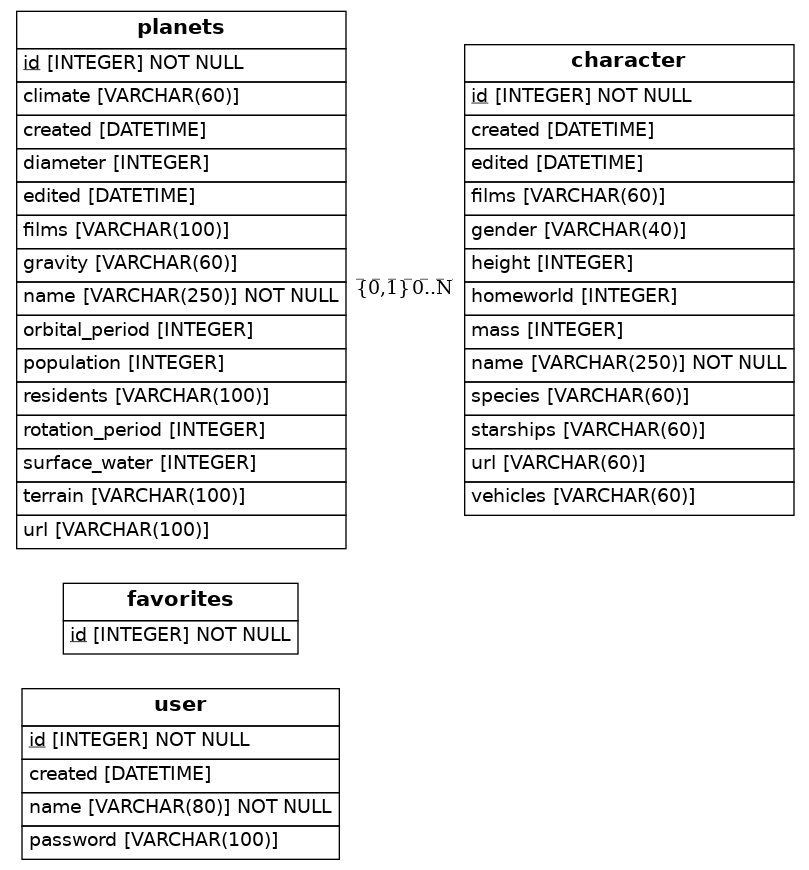
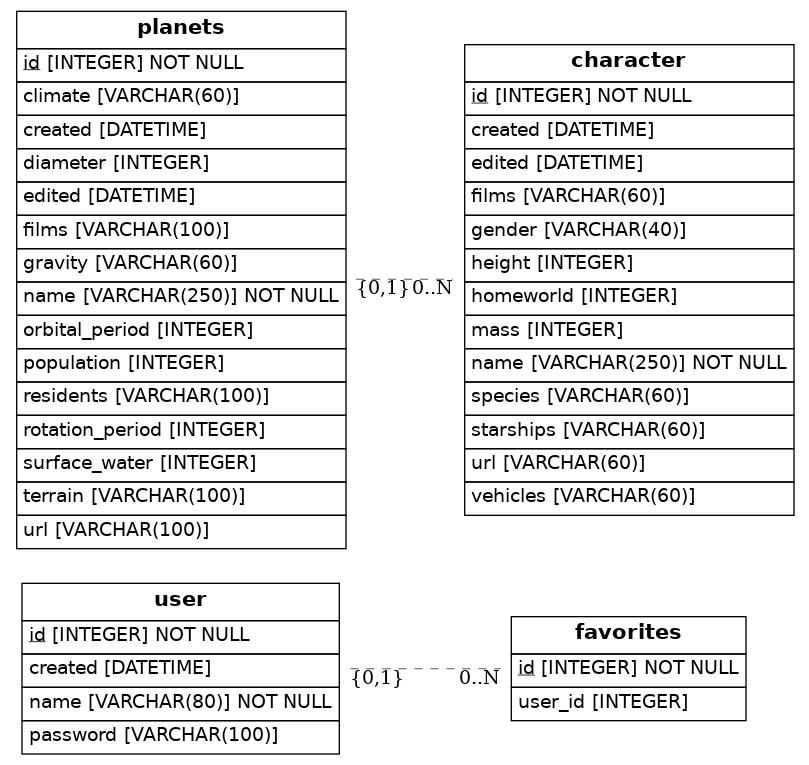
relations

diff --git a/src/models.py b/src/models.py
@@ -13,13 +13,14 @@ class User(Base):
     name=Column(String(80), nullable=False)
     password=Column(String(100))
     created=Column(DateTime(timezone=False))
+    favorites = relationship('Favorites')
 
 class Favorites(Base):
     __tablename__='favorites'
     id=Column(Integer, primary_key=True)
     id.character=Column(Integer, ForeignKey('character.id'))
     id.planets=Column(Integer, ForeignKey('planets.id'))
-
+    user_id = Column(Integer, ForeignKey('user.id'))
 
 class Character(Base):
     __tablename__='character'
@@ -32,7 +33,8 @@ class Character(Base):
     eye_color=(String(30))
     birth_year=(String(30))
     gender=Column(String(40))
-    homeworld=Column(Integer, ForeignKey('planets.id'))
+    homeworld_id = Column(Integer, ForeignKey('planets.id'))
+    homeworld = relationship('Planets')
     films=Column(String(60))
     species=Column(String(60))
     vehicles=Column(String(60))
